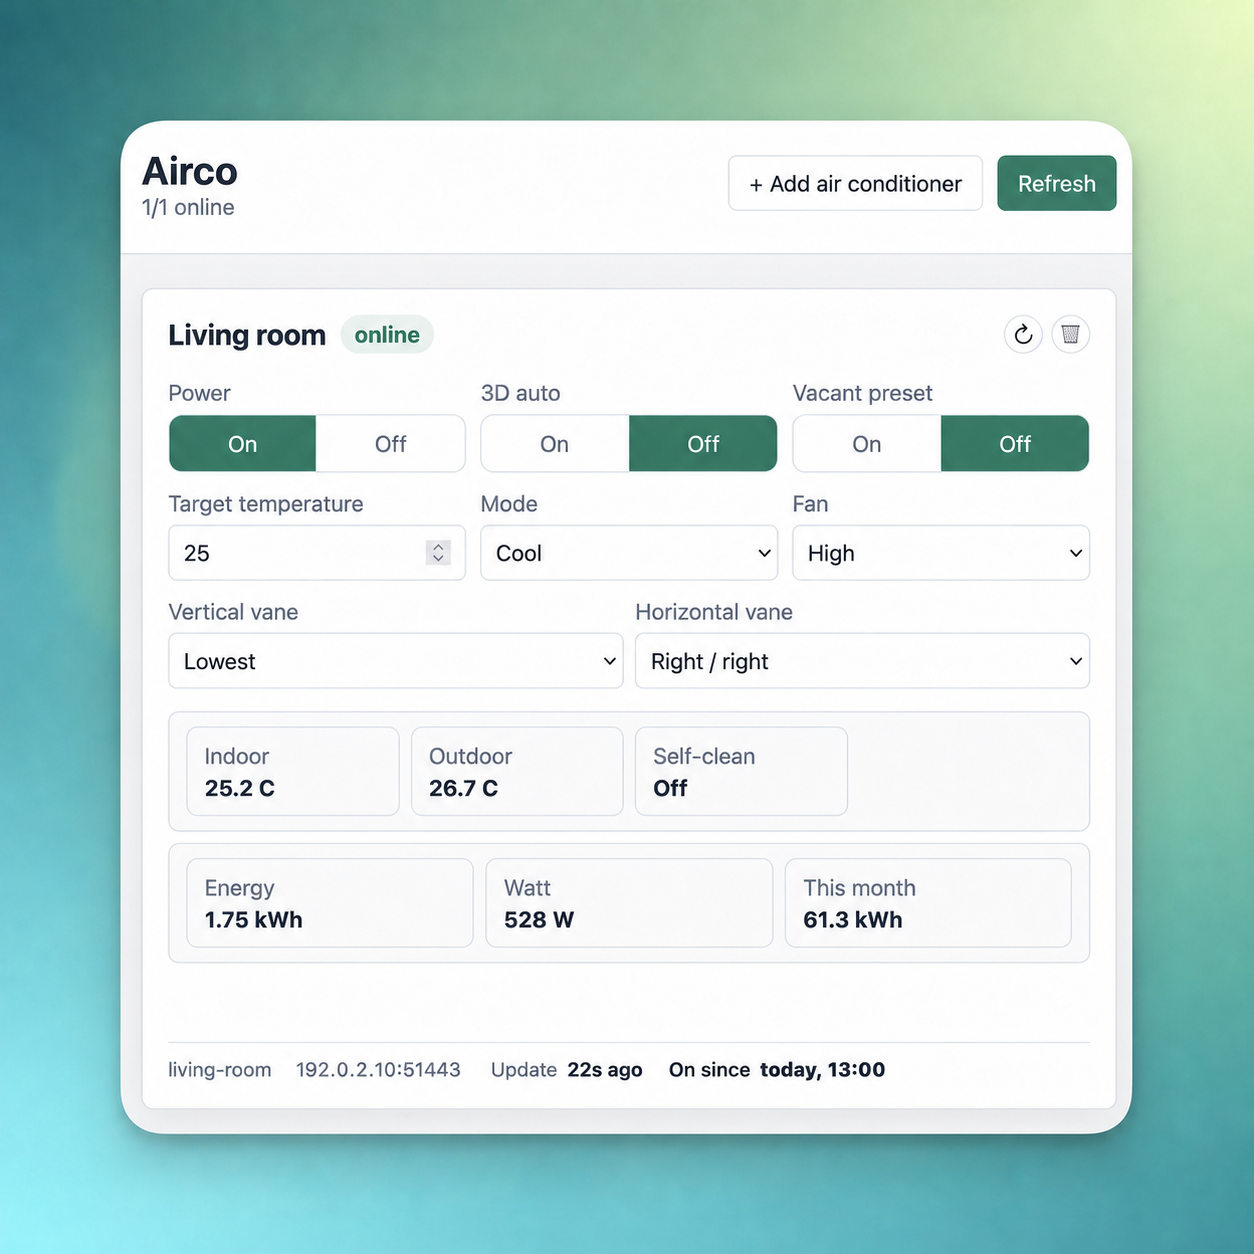
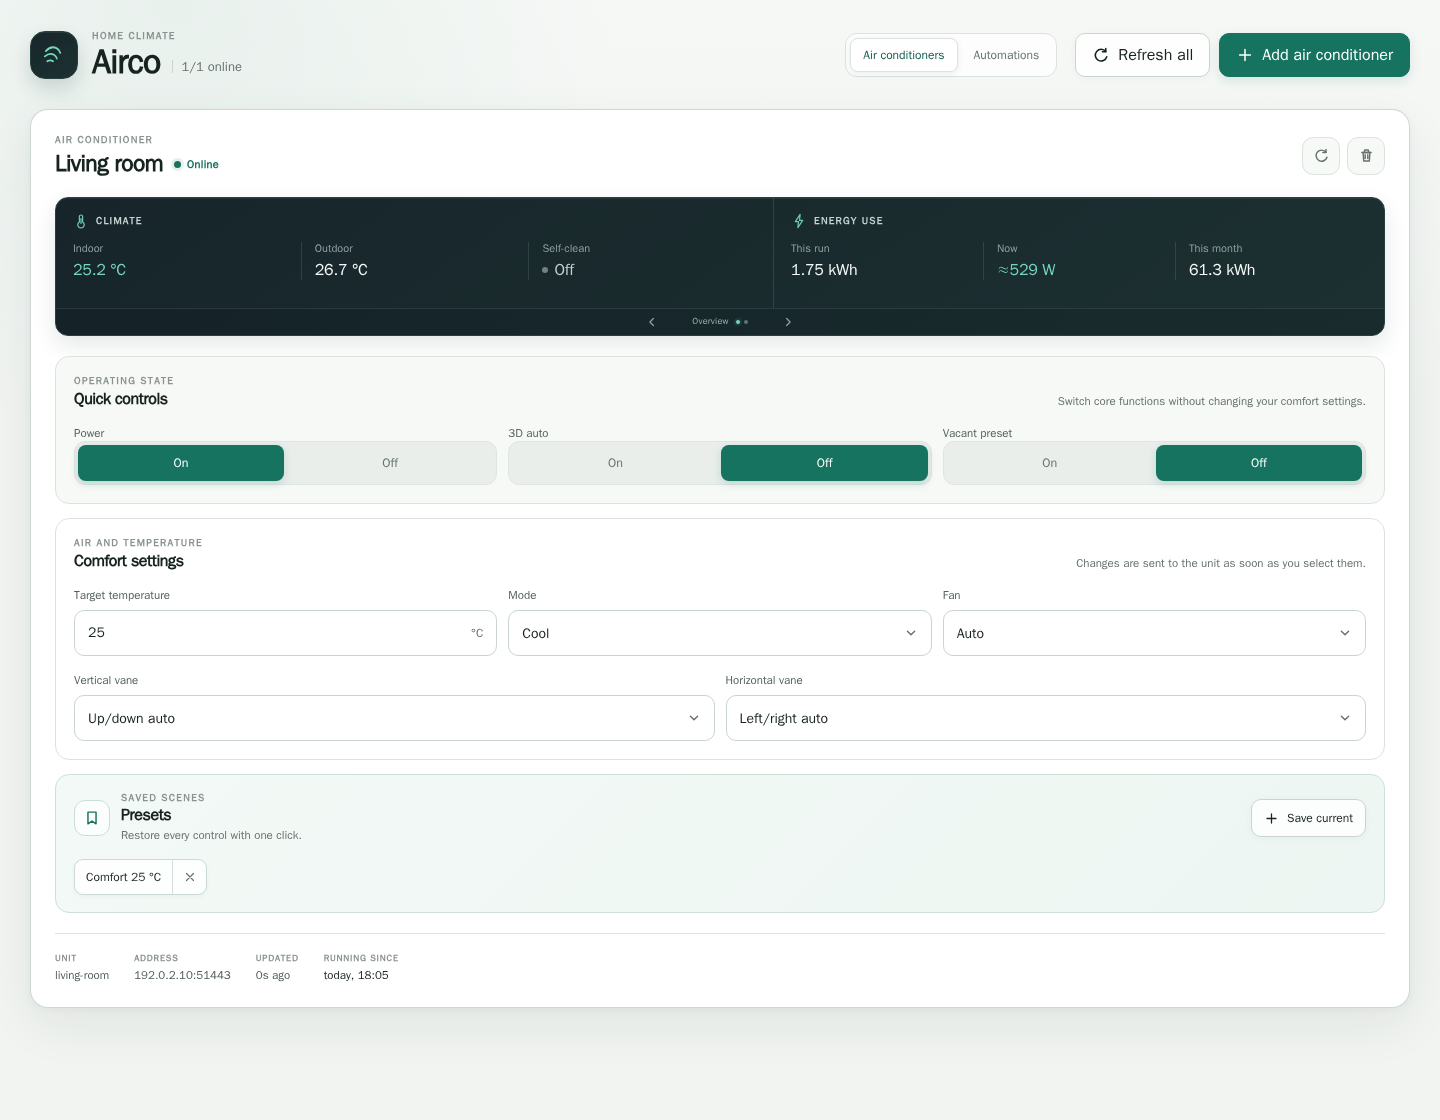
docs: refresh README and product screenshots

diff --git a/README.md b/README.md
@@ -1,148 +1,101 @@
 # AircoBridge
 
+[![Latest release](https://img.shields.io/github/v/release/CrazyHenk44/AircoBridge)](https://github.com/CrazyHenk44/AircoBridge/releases/latest)
 [![CI](https://github.com/CrazyHenk44/AircoBridge/actions/workflows/ci.yml/badge.svg)](https://github.com/CrazyHenk44/AircoBridge/actions/workflows/ci.yml)
+[![Container](https://img.shields.io/badge/ghcr.io-aircobridge-2496ED?logo=docker&logoColor=white)](https://github.com/CrazyHenk44/AircoBridge/pkgs/container/aircobridge)
 
-Local HTTP bridge and web UI for **Mitsubishi Heavy Industries Smart M-Air / WF-RAC** air
-conditioners. It talks directly to the WF-RAC Wi-Fi module on your LAN — no cloud, no
-manufacturer account. This repo contains the Node.js service, the web interface and
-protocol tooling.
+**Control and automate Mitsubishi Heavy Industries air conditioners directly on your
+LAN — without a cloud account, subscription or external automation platform.**
 
-![AircoBridge web interface](screenie.png)
+AircoBridge connects to Smart M-Air / WF-RAC Wi-Fi modules and gives you a polished web
+dashboard, visual climate automations, live energy insight and a documented REST API.
+Everything runs locally, including your automations.
 
-## Features
+![AircoBridge dashboard](screenie.png)
 
-- Polls one or more WF-RAC units and exposes their state over a REST API.
-- Web interface for power, target temperature, mode, fan speed, vanes and 3D auto.
-- Saves named, per-unit presets for restoring all controls with one click; a preset can
-  optionally be copied to every currently configured unit.
-- Builds graphical automations from connected temperature, power, time, AND/OR and
-  action blocks, including a minimum on/off duration for power conditions. Flows run
-  locally on the bridge while the browser is closed.
-- Keeps a bounded local activity log explaining executed actions, matching sensor
-  values, cooldown skips, configuration changes and errors.
-- Shows estimated live outdoor-unit power plus technical compressor, valve and coil
-  values, and tracks usage history (`data/airco-history.json`) including monthly totals.
-- Interactive protocol-debug tool for reverse-engineering unknown status bytes.
-- Finds WF-RAC units that announce `_beaver._tcp.local`, stores a privacy-preserving
-  discovery identity and follows later IP-address changes automatically.
-- Announces itself with mDNS-SD so integrations such as Homey can discover the bridge
-  and follow address changes automatically.
+## Why AircoBridge?
 
-## Supported hardware
+| Local by design | Useful automations | More insight |
+| --- | --- | --- |
+| Talks directly to the air conditioner. No manufacturer cloud or internet connection required. | Build flows visually from temperature, power, mode and time conditions. They keep running when the browser is closed. | See temperatures, energy history and estimated live outdoor-unit power, plus compressor and coil telemetry. |
 
-This bridge targets Mitsubishi Heavy Industries units with a Smart M-Air WF-RAC (or
-WF-RAC-HTTPS) Wi-Fi module — the ones controlled by the "Smart M-Air" mobile app. It
-speaks the module's local Beaver API on port `51443` (HTTPS with a self-signed
-certificate).
+### Highlights
 
-It has only been tested against a single setup:
+- Control power, temperature, mode, fan speed, vanes, 3D auto and vacant mode.
+- Save named presets and apply a complete configuration with one click.
+- Start with a ready-made temperature-control template or create a flow from scratch.
+- Combine conditions with AND/OR blocks and connect them to preset or power actions.
+- Require a power state to have lasted for a minimum time before an action may run.
+- Finish cooling with a managed **Clean 30 min → Off** cycle.
+- Keep manual control in charge until the unit is switched off or automations are resumed.
+- Review a local activity log explaining triggers, skipped actions and errors.
+- Discover compatible units through mDNS and follow later IP-address changes.
+- Integrate other local systems through the JSON REST API and `_aircobridge._tcp.local`.
+
+## Quick start
+
+You need Docker with the Compose plugin and an air conditioner already connected to
+Wi-Fi through the Smart M-Air app. The published image supports AMD64 and ARM64 Linux.
+
+```sh
+git clone https://github.com/CrazyHenk44/AircoBridge.git
+cd AircoBridge
+make setup
+docker compose up -d
+```
+
+Open [http://localhost:3000](http://localhost:3000), click **Add air conditioner** and
+follow the setup wizard. It can discover a unit automatically, register the bridge on
+the Wi-Fi module, test the connection and save the configuration.
+
+To install a newer release later:
+
+```sh
+make update
+```
+
+Configuration and runtime data live in the mounted `config/` and `data/` directories,
+so recreating or updating the container keeps your units, presets, history and flows.
+
+## Visual automations
+
+Open **Automations** to create a blank flow or choose **+ → Templates → Temperature
+control**. The template creates guarded start and stop branches that you can edit like
+any other flow.
+
+By default, it:
+
+1. Starts a selected preset when the temperature conditions match and the unit is off.
+2. Prevents the stop branch from running until the air conditioner has been on for at
+   least 30 minutes.
+3. Runs a 30-minute low-fan Clean cycle before switching the unit off.
+
+![AircoBridge automation workspace](docs/images/automations.png)
+
+Flows and their latest 500 meaningful activity events are stored locally. Manual
+changes made through the dashboard or physical remote pause automation actions for
+that unit; switching it off or selecting **Resume automations** hands control back.
+
+## Compatible hardware
+
+AircoBridge targets Mitsubishi Heavy Industries units fitted with a **WF-RAC** or
+**WF-RAC-HTTPS** module — the modules used by the Smart M-Air mobile app. It connects to
+the local Beaver API on port `51443`.
+
+Currently verified hardware:
 
 | Indoor unit | Wi-Fi module | Wireless firmware | MCU firmware |
 | --- | --- | --- | --- |
 | SRK50ZS-WF | WF-RAC-HTTPS | 025 | 200 |
 
-Other WF-RAC units will likely work since they share the same protocol, but that is
-untested. If you run this bridge against a different unit, please open an issue to
-report whether it works (include the model and firmware versions from
-`GET /api/aircos/:id?raw=1`) so this list can grow.
-
-## Installation
-
-You need Docker with the Compose plugin, and a WF-RAC unit that is already on your
-Wi-Fi (set up once with the Smart M-Air app). The published image supports AMD64 and
-ARM64 Linux systems. The recommended setup uses the included Compose file and Docker's
-host network mode so mDNS discovery reaches the physical LAN:
-
-```sh
-git clone https://github.com/CrazyHenk44/AircoBridge.git
-cd AircoBridge
-make setup                      # creates .env and an empty config/aircos.json
-docker compose up -d
-```
-
-`docker compose up -d` automatically pulls
-`ghcr.io/crazyhenk44/aircobridge:latest` (equivalent to running `docker pull`), then
-starts it with persistent configuration and history storage.
-
-Open `http://localhost:3000` and click **"+ Add air conditioner"**. The wizard walks you
-through the rest:
-
-1. Select a unit found automatically through `_beaver._tcp.local`, or enter its IP
-   address manually from your router's DHCP client list. Units linked through mDNS do
-   not require a static DHCP lease.
-2. Choose how to get access: let the bridge **register itself** on the unit (it
-   generates a fresh identity, the same way the Smart M-Air app pairs a phone), or
-   enter an existing `deviceId`/`operatorId`.
-3. The wizard tests the connection against the live unit.
-4. Give the unit a name — done. It appears with live status and controls, and is saved
-   to `config/aircos.json`.
-
-The module has four operator slots. If the wizard reports they are all taken, remove an
-unused account in the Smart M-Air app and try again, or pick "reuse existing
-credentials" in the wizard. Manual configuration, CLI registration and other ways to
-obtain credentials are described in [docs/advanced.md](docs/advanced.md).
-
-To remove a unit, use the delete button on its card. This also discards its usage
-history and presets, and — when the bridge registered the account itself — removes that
-account from the unit again, freeing up the operator slot.
-
-### Troubleshooting
-
-A unit should show as online within one poll interval (30 s by default). If not:
-
-```sh
-docker compose logs -f airco                  # service logs
-curl -s http://localhost:3000/api/aircos      # per-unit "online" and "lastError"
-```
-
-Common causes: the unit is on a different VLAN/subnet, mDNS is blocked, or the operator
-identity is not registered on the unit.
-
-Useful commands:
-
-```sh
-docker compose ps
-docker compose down
-make update                     # pull the newest image and restart
-```
-
-The bridge browses for `_beaver._tcp.local` units during setup and startup, and after a
-connection failure. It hashes each service identity before storing it; when the unit's
-address changes, the runtime and file configuration are updated and the request is
-retried once. The bridge also advertises `_aircobridge._tcp.local` on the LAN by
-default. Its stable
-identity is generated once in `data/bridge-id`; keep the `data` directory when moving
-or updating an installation. If the host has VPN, NetBird, Docker or other virtual
-interfaces, set `AIRCO_MDNS_INTERFACE` in `.env` to the physical LAN interface name
-(for example `eth0`) or its host IP. Comma-separated values are also accepted. Set
-`AIRCO_MDNS_ENABLED=0` only when both unit discovery and bridge advertisement are
-intentionally disabled; the setup wizard then falls back to manual address entry.
-
-Host networking is supported natively by Docker Engine on Linux. Docker Desktop users
-must enable host networking in Docker Desktop 4.34 or newer. The configured
-`AIRCO_HTTP_PORT` is the actual host port in this mode, so it must be free.
-
-When upgrading an existing Compose installation, check `.env`: older releases created
-`AIRCO_HTTP_BIND=127.0.0.1`, which must be changed to `0.0.0.0` or the host's physical
-LAN IP for Homey and other LAN clients to connect. Then recreate the container with
-`make update` (published image) or `make up-local` (local source).
-
-History is stored in `data/airco-history.json`, presets in `data/airco-presets.json`,
-graphical flows in `data/airco-automations.json`, and their latest 500 meaningful
-events in `data/airco-automation-log.json`. Override the paths with
-`AIRCO_HISTORY_FILE`, `AIRCO_PRESETS_FILE`, `AIRCO_AUTOMATIONS_FILE` and
-`AIRCO_AUTOMATION_LOG_FILE` if needed.
-Time blocks use the service's local timezone; Compose defaults `TZ` to
-`Europe/Amsterdam`, which can be changed in `.env`.
-
-By default, Compose binds the web UI to all host interfaces so LAN integrations can
-reach it. To limit both HTTP and discovery to the physical LAN on a multi-homed host,
-set `AIRCO_HTTP_BIND` to that host IP and set `AIRCO_MDNS_INTERFACE` to the matching IP
-or interface name. Protect access at the network layer.
+Other WF-RAC models are likely compatible because they share the protocol. Reports for
+other combinations are welcome; please include the model and firmware versions but no
+device identifiers or credentials.
 
 ## REST API
 
-Everything the web UI does goes through a JSON API you can use from your own projects:
+Everything in the dashboard uses the same JSON API that is available to your own local
+integrations:
 
 ```sh
 curl -X POST http://localhost:3000/api/aircos/living-room/power \
@@ -150,35 +103,48 @@ curl -X POST http://localhost:3000/api/aircos/living-room/power \
   -d '{"power":"on"}'
 ```
 
-See [docs/api.md](docs/api.md) for the full endpoint reference.
-Integrations can use `GET /api/info` to read the stable `bridgeId` and detect optional
-bridge features such as discovery and presets while remaining compatible with older
-server versions.
+See [docs/api.md](docs/api.md) for air-conditioner controls, presets, automations,
+activity logs and feature detection.
+
+## Troubleshooting
+
+A unit normally appears online within one polling interval (30 seconds by default).
+Start with:
+
+```sh
+docker compose ps
+docker compose logs -f airco
+curl -s http://localhost:3000/api/aircos
+```
+
+Connection problems are usually caused by VLAN isolation, blocked mDNS traffic, an
+incorrect address or unavailable operator slot. Manual configuration, network-interface
+selection, registration and Docker Desktop notes are covered in
+[docs/advanced.md](docs/advanced.md).
 
 ## Documentation
 
-- [docs/api.md](docs/api.md) — REST API reference for integrating with your own projects.
-- [docs/advanced.md](docs/advanced.md) — running without Docker, configuration details, CLI and protocol debugging.
-- [docs/architecture.md](docs/architecture.md) — how the service is put together.
-- [docs/mitsubishi-airco.md](docs/mitsubishi-airco.md) — WF-RAC / Beaver protocol notes.
+- [API reference](docs/api.md) — controls, presets, automations and integration details.
+- [Advanced setup](docs/advanced.md) — configuration, networking, CLI and debugging.
+- [Architecture](docs/architecture.md) — service components and persistent state.
+- [WF-RAC protocol notes](docs/mitsubishi-airco.md) — Beaver messages and operation data.
 
 ## Security
 
-The bridge has **no authentication** and disables TLS verification towards the unit
-(the module uses a self-signed certificate). Run it only on a trusted LAN and do not
-expose port 3000 to the internet. See [SECURITY.md](SECURITY.md) for the threat model and
-vulnerability-reporting guidance.
+AircoBridge has no built-in user authentication and communicates with the module over
+its self-signed TLS connection. Run it only on a trusted LAN and never expose port
+`3000` directly to the internet. See [SECURITY.md](SECURITY.md) for the threat model and
+reporting process.
 
 ## Contributing
 
-Bug reports, compatibility reports and pull requests are welcome. See
+Compatibility reports, bug reports and pull requests are welcome. See
 [CONTRIBUTING.md](CONTRIBUTING.md) for the contribution workflow and required checks.
 
 ## Credits
 
 Protocol knowledge builds on the reverse-engineering work of
-[jeatheak/Mitsubishi-WF-RAC-Integration](https://github.com/jeatheak/Mitsubishi-WF-RAC-Integration)
-(in particular its [WF-RAC module reference](https://github.com/jeatheak/Mitsubishi-WF-RAC-Integration/blob/master/docs/wf-rac-module-reference.md)),
+[jeatheak/Mitsubishi-WF-RAC-Integration](https://github.com/jeatheak/Mitsubishi-WF-RAC-Integration),
 [JobDoesburg/homebridge-mhi-wfrac](https://github.com/JobDoesburg/homebridge-mhi-wfrac)
 and [mcheijink/WF-RAC](https://github.com/mcheijink/WF-RAC).
 
